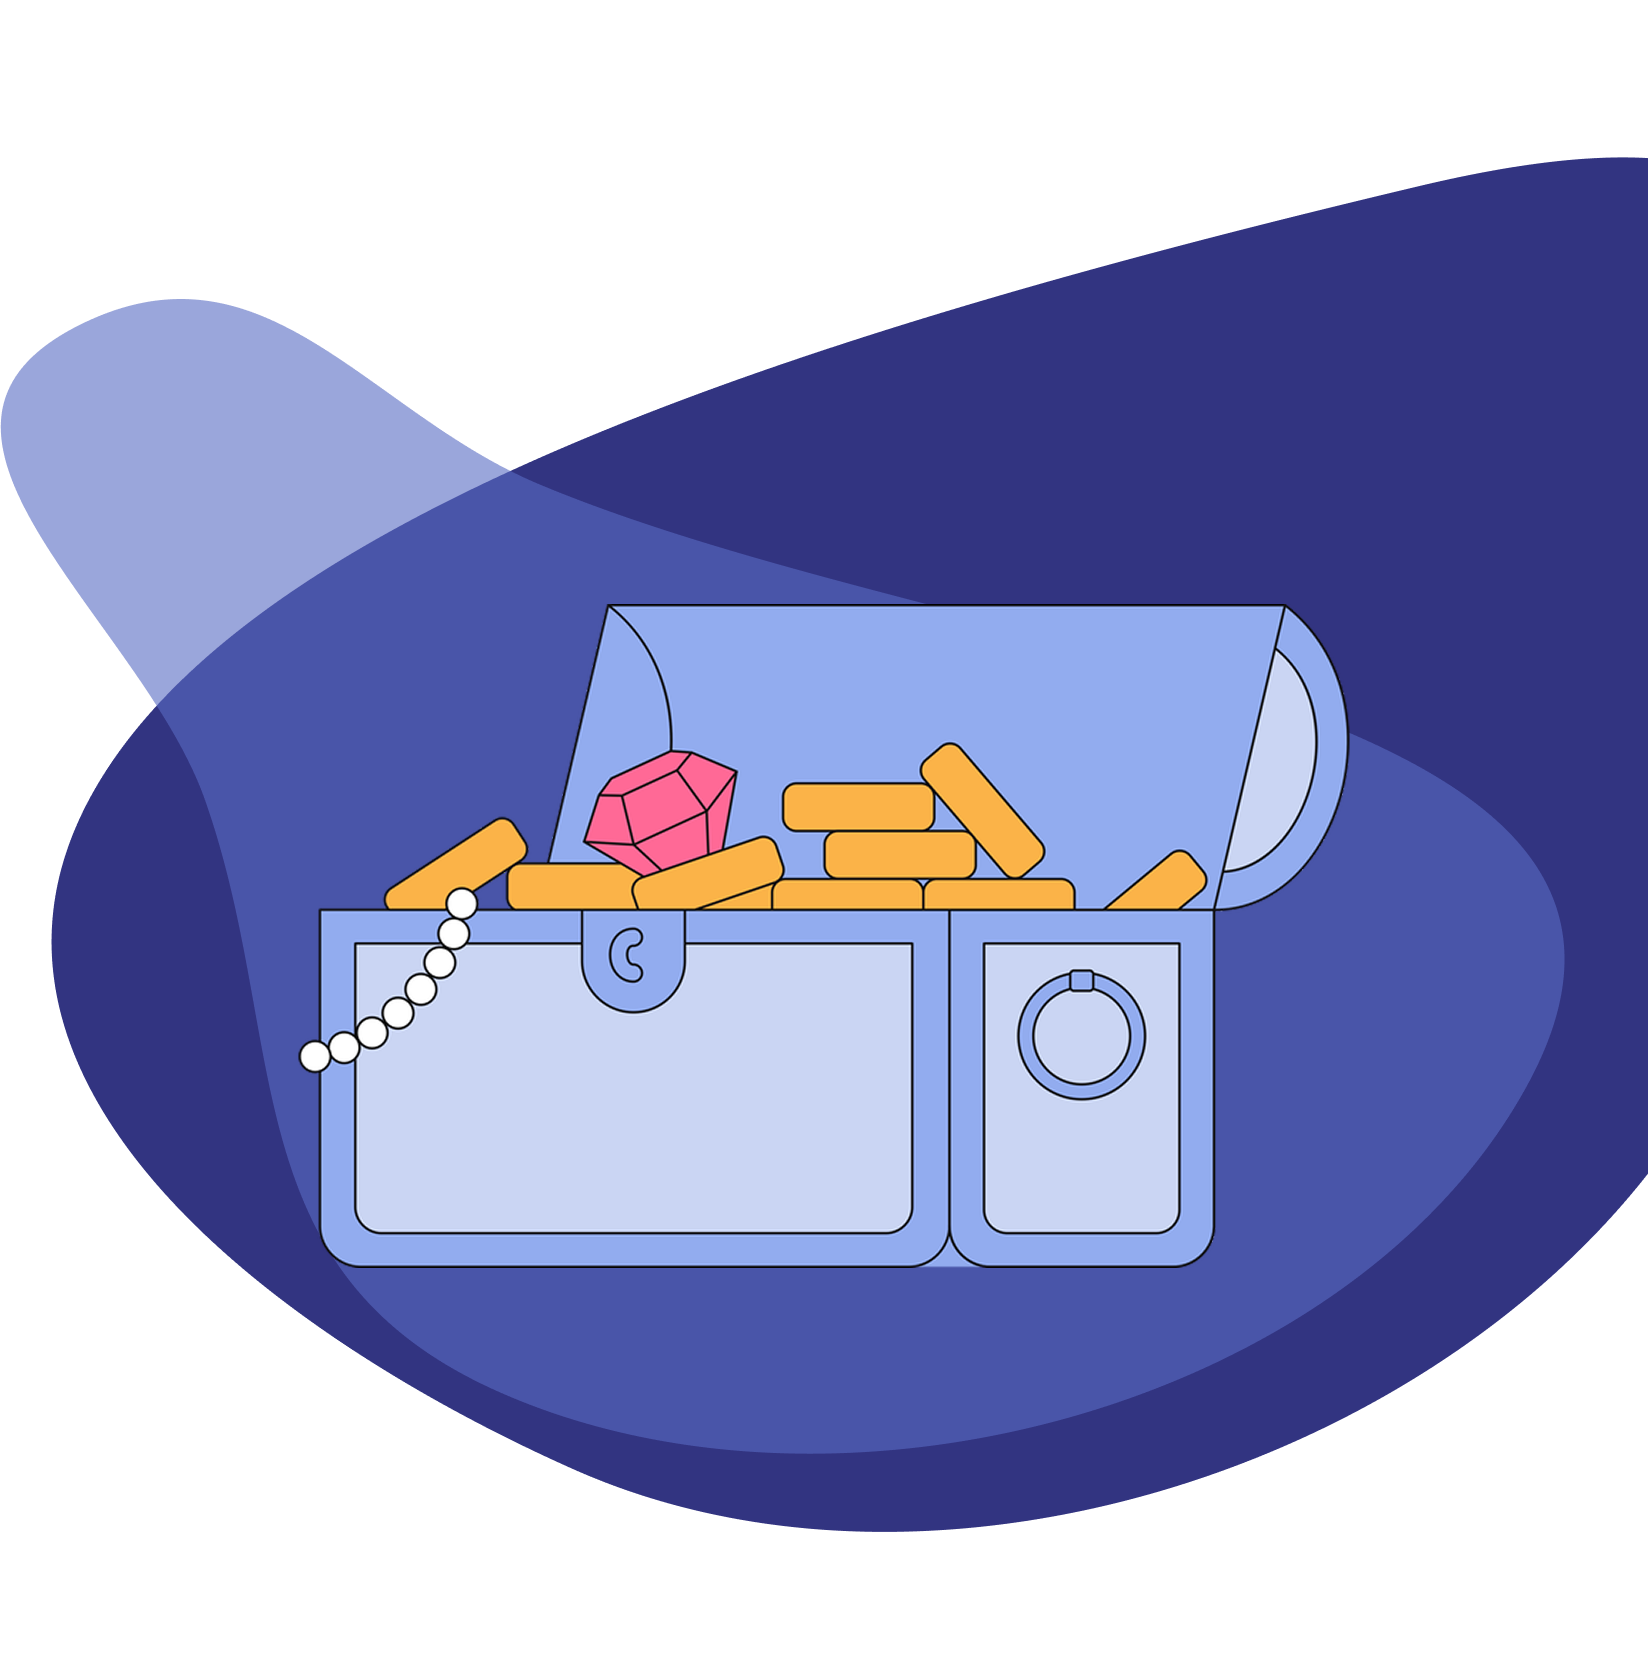
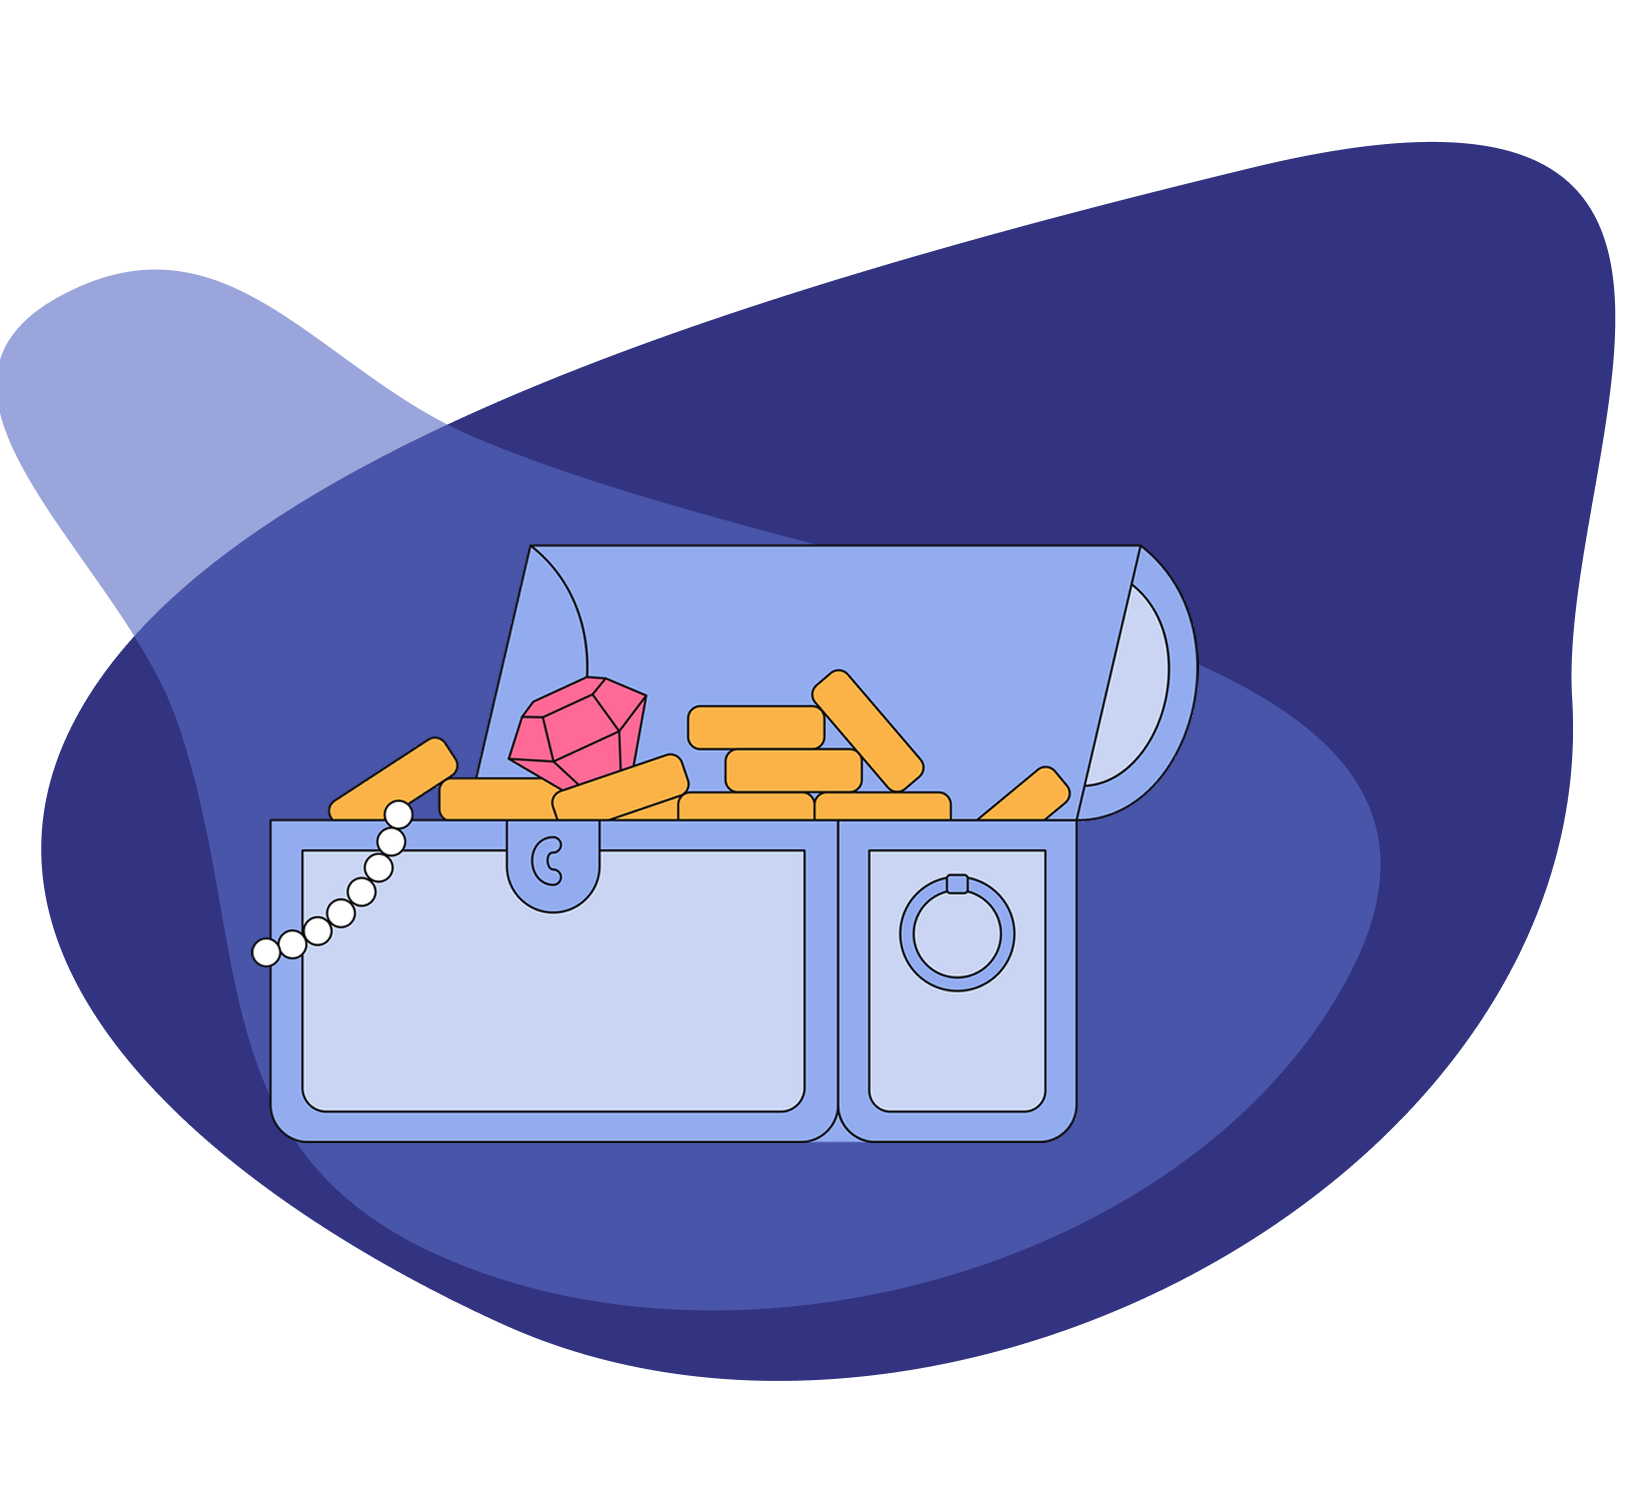
Menambah navbar

diff --git a/lib/app.dart b/lib/app.dart
@@ -1,19 +1,22 @@
 import 'package:flutter/material.dart';
-import 'screens/home_page.dart';
+import 'pages/main_page.dart';
 
-class MyStoreApp extends StatelessWidget {
-  const MyStoreApp({super.key});
+class MyApp extends StatelessWidget {
+  const MyApp({super.key});
 
   @override
   Widget build(BuildContext context) {
     return MaterialApp(
+      title: 'Quizhard',
       debugShowCheckedModeBanner: false,
-      title: 'Quizz',
+
       theme: ThemeData(
-        colorScheme: ColorScheme.fromSeed(seedColor: Colors.teal),
-        useMaterial3: true,
+        primaryColor: const Color(0xFF23206F),
+        scaffoldBackgroundColor: const Color(0xFF23206F),
+        fontFamily: 'Roboto',
       ),
-      home: const HomePage(),
+
+      home: const MainPage(),
     );
   }
 }

diff --git a/lib/main.dart b/lib/main.dart
@@ -2,5 +2,5 @@ import 'package:flutter/material.dart';
 import 'app.dart';
 
 void main() {
-  runApp(const MyStoreApp());
+  runApp(const MyApp());
 }